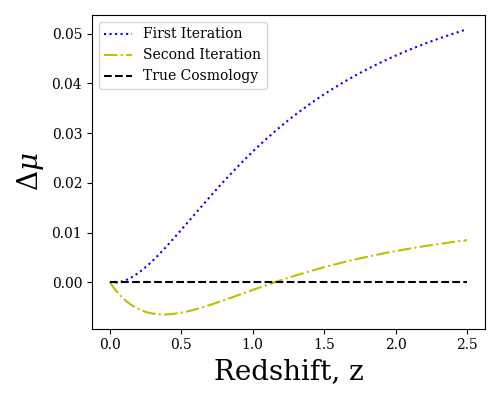
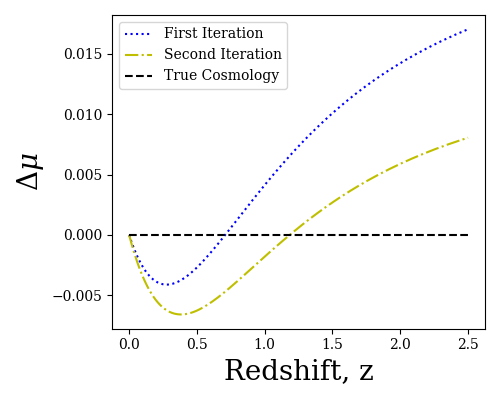
.

diff --git a/likelihoods_SN_interp.py b/likelihoods_SN_interp.py
@@ -17,8 +17,8 @@ import time
 ## 3. Models
 
 # Mock Data
-cov_path = Path("data/data_TESTS/cov_FLCDM_22.txt")
-HD_path = Path("data/data_TESTS/HD_FLCDM_22.txt")
+cov_path = Path("data/data_TESTS/cov_wCDM_22.txt")
+HD_path = Path("data/data_TESTS/HD_wCDM_22.txt")
 arr_size = int(np.genfromtxt(cov_path, comments='#',dtype=None)[0])
 DES5YR_UNBIN = np.genfromtxt(HD_path, names=True, comments='#')
 cov_arr = np.genfromtxt(cov_path, comments='#',dtype=None)[1:]
